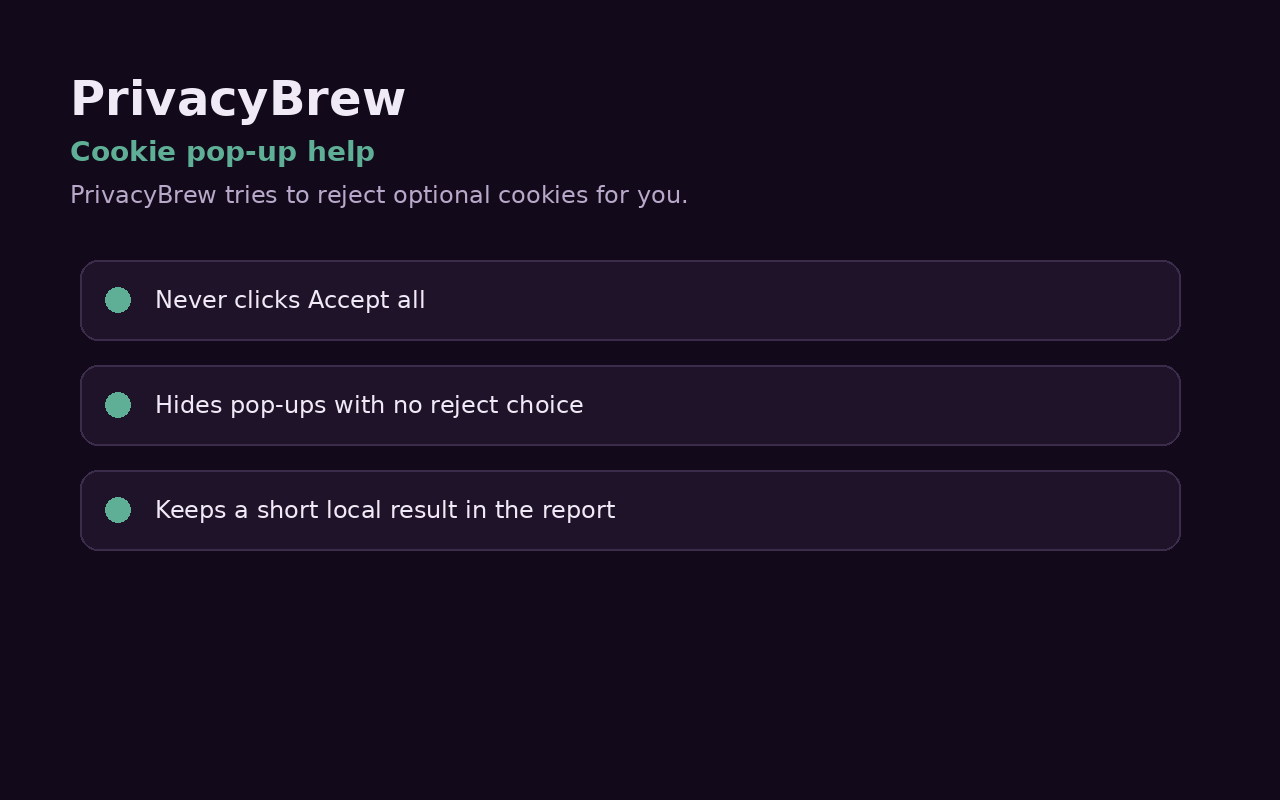
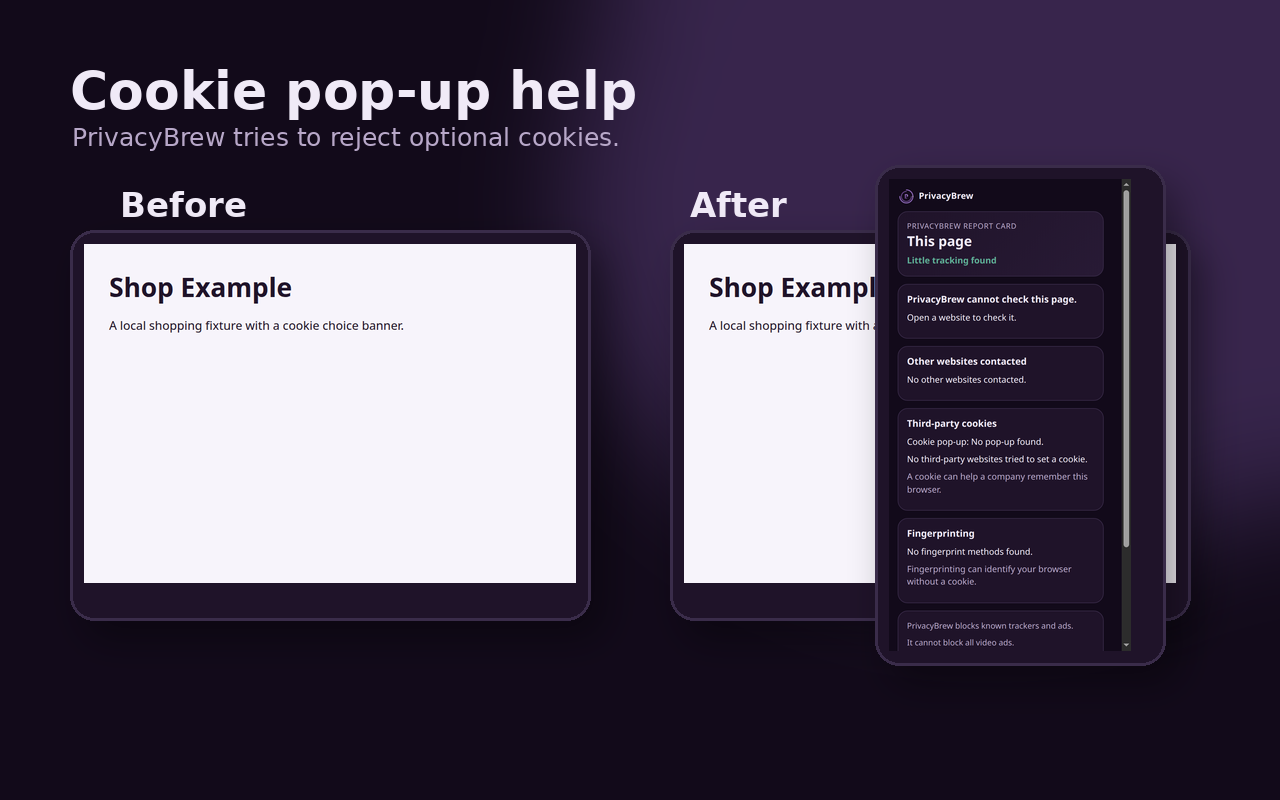
Redo store screenshots with product UI

diff --git a/tools/store_screenshots.py b/tools/store_screenshots.py
@@ -1,0 +1,190 @@
+#!/usr/bin/env python3
+import base64, contextlib, http.server, json, shutil, subprocess, threading, time
+from pathlib import Path
+from urllib.parse import urlparse
+import websocket
+from PIL import Image, ImageDraw, ImageFont, ImageFilter
+
+ROOT = Path(__file__).resolve().parents[1]
+EXT = ROOT / 'dist' / 'package-work'
+OUT = ROOT / 'store' / 'screenshots'
+PROMO = ROOT / 'store' / 'promo-small-440x280.png'
+PORT = 8876
+HOSTS = ['news.example', 'shop.example', 'www.google-analytics.com', 'static.doubleclick.net', 'connect.facebook.net', 'bat.bing.com', 'googleads.g.doubleclick.net']
+BG = '#120a1a'; PANEL = '#1f1329'; PANEL2 = '#281a35'; BORDER = '#3a2c4a'; ACC = '#9b6dd1'; GREEN = '#5fae96'; WARN = '#e8a87c'; TEXT = '#f0eaf7'; DIM = '#b8a8c9'
+
+try:
+    FONT_BIG = ImageFont.truetype('DejaVuSans-Bold.ttf', 52)
+    FONT_MED = ImageFont.truetype('DejaVuSans-Bold.ttf', 34)
+    FONT = ImageFont.truetype('DejaVuSans.ttf', 25)
+    FONT_SMALL = ImageFont.truetype('DejaVuSans.ttf', 20)
+except Exception:
+    FONT_BIG = FONT_MED = FONT = FONT_SMALL = None
+
+class Handler(http.server.BaseHTTPRequestHandler):
+    def log_message(self, *args): pass
+    def send(self, body, ctype='text/html'):
+        data = body.encode() if isinstance(body, str) else body
+        self.send_response(200); self.send_header('Content-Type', ctype); self.send_header('Content-Length', str(len(data))); self.end_headers(); self.wfile.write(data)
+    def do_GET(self):
+        host = self.headers.get('Host','').split(':')[0]
+        path = urlparse(self.path).path
+        if host == 'news.example':
+            return self.send(f'''<!doctype html><title>News Example</title><style>body{{font:20px system-ui;margin:0;background:#f7f4fb;color:#1f1329}}main{{padding:48px;max-width:900px}}.hero{{font-size:52px;font-weight:800}}.ad{{padding:18px;background:#eee;border:2px dashed #9b6dd1;margin:20px 0}}</style><main><div class="hero">Morning privacy report</div><p>This local fixture loads trackers, ads, and fingerprint scripts for the store images.</p><div class="ad" id="ADbox">Ad space</div><script src="http://www.google-analytics.com:{PORT}/ga.js"></script><script src="http://static.doubleclick.net:{PORT}/ad.js"></script><script src="http://connect.facebook.net:{PORT}/social.js"></script><script src="http://bat.bing.com:{PORT}/bing.js"></script><script src="http://googleads.g.doubleclick.net:{PORT}/pagead/ad.js"></script><script>const c=document.createElement('canvas');c.width=32;c.height=32;c.getContext('2d').getImageData(0,0,32,32);</script><p>Local story list. No real website data is used.</p></main>''')
+        if host == 'shop.example':
+            return self.send('''<!doctype html><title>Shop Example</title><style>body{font:22px system-ui;margin:0;background:#f7f4fb;color:#1f1329}main{padding:46px}.product{font-size:48px;font-weight:800}.banner{position:fixed;left:80px;right:80px;bottom:60px;background:#1f1329;color:#f0eaf7;border-radius:20px;padding:28px;box-shadow:0 18px 50px #0008}.banner button{font:20px system-ui;padding:12px 18px;margin-right:12px;border-radius:999px;border:0}.reject{background:#5fae96}.accept{background:#e8a87c}</style><main><div class="product">Shop Example</div><p>A local shopping fixture with a cookie choice banner.</p></main><div id="onetrust-consent-sdk" class="banner"><div id="onetrust-banner-sdk"><strong>Cookie choices</strong><p>We use cookies to improve this local fixture.</p><button class="ot-pc-refuse-all-handler reject" onclick="window.__rejectClicked=true;document.querySelector('.banner').style.display='none'">Reject optional cookies</button><button class="accept" onclick="window.__acceptClicked=true">Accept all</button></div></div>''')
+        if path.endswith('.js'):
+            return self.send('window.__fixtureLoaded=true;', 'application/javascript')
+        self.send_response(404); self.end_headers()
+
+def start_server():
+    server = http.server.ThreadingHTTPServer(('127.0.0.1', PORT), Handler)
+    threading.Thread(target=server.serve_forever, daemon=True).start(); return server
+
+class CDP:
+    def __init__(self, ws): self.ws = websocket.create_connection(ws, timeout=20); self.i = 1; self.events=[]
+    def call(self, method, params=None, sessionId=None):
+        msg={'id':self.i,'method':method}; self.i+=1
+        if params is not None: msg['params']=params
+        if sessionId: msg['sessionId']=sessionId
+        self.ws.send(json.dumps(msg))
+        while True:
+            data=json.loads(self.ws.recv())
+            if data.get('id')==msg['id']:
+                if 'error' in data: raise RuntimeError(data['error'])
+                return data.get('result',{})
+            self.events.append(data)
+
+def launch():
+    profile = ROOT / 'artifacts' / 'store-screenshot-profile'
+    if profile.exists(): shutil.rmtree(profile)
+    profile.mkdir(parents=True)
+    args=['google-chrome','--headless=new','--no-first-run','--no-default-browser-check',f'--user-data-dir={profile}','--remote-debugging-port=0','--remote-allow-origins=*','--enable-unsafe-extension-debugging','--window-size=1280,900','--host-resolver-rules='+','.join(f'MAP {h} 127.0.0.1' for h in HOSTS),'about:blank']
+    proc=subprocess.Popen(args,stdout=subprocess.DEVNULL,stderr=subprocess.PIPE,text=True)
+    ws=''
+    end=time.time()+20
+    while time.time()<end:
+        line=proc.stderr.readline()
+        if 'DevTools listening on ' in line: ws=line.split('DevTools listening on ',1)[1].strip(); break
+    cdp=CDP(ws)
+    ext=cdp.call('Extensions.loadUnpacked', {'path': str(EXT)})['id']
+    sw=None
+    for _ in range(50):
+        for t in cdp.call('Target.getTargets')['targetInfos']:
+            if t.get('url','').endswith('/background.js'):
+                sw=cdp.call('Target.attachToTarget', {'targetId':t['targetId'], 'flatten':True})['sessionId']; cdp.call('Runtime.enable', sessionId=sw); break
+        if sw: break
+        time.sleep(.2)
+    return proc, cdp, ext, sw, profile
+
+def attach(cdp, target):
+    return cdp.call('Target.attachToTarget', {'targetId':target, 'flatten':True})['sessionId']
+
+def evalv(cdp, session, expr):
+    return cdp.call('Runtime.evaluate', {'expression':expr, 'awaitPromise':True, 'returnByValue':True}, session).get('result',{}).get('value')
+
+def wait(cdp, session):
+    end=time.time()+15
+    while time.time()<end:
+        if evalv(cdp, session, 'document.readyState') == 'complete': return
+        time.sleep(.2)
+
+def screenshot(cdp, session, path, full=True):
+    data=cdp.call('Page.captureScreenshot', {'format':'png', 'captureBeyondViewport': full}, session)['data']
+    path.write_bytes(base64.b64decode(data)); return Image.open(path).convert('RGBA')
+
+def create_popup_state(cdp, sw, tab_id, site='news.example', cookie='none'):
+    expr=f'''(async()=>{{
+      await ensureData();
+      const s=PB.Report.emptyState({tab_id}, 'https://{site}/', '{site}'); s.status='ok';
+      PB.Report.addTracker(s, disconnect.find('www.google-analytics.com'), 'www.google-analytics.com', 'blocked', 'https://www.google-analytics.com/analytics.js');
+      PB.Report.addTracker(s, disconnect.find('static.doubleclick.net'), 'static.doubleclick.net', 'blocked', 'https://static.doubleclick.net/ad.js');
+      PB.Report.addTracker(s, disconnect.find('connect.facebook.net'), 'connect.facebook.net', 'blocked', 'https://connect.facebook.net/social.js');
+      PB.Report.addTracker(s, disconnect.find('bat.bing.com'), 'bat.bing.com', 'blocked', 'https://bat.bing.com/bing.js');
+      PB.Report.addAdBlocked(s, 'https://googleads.g.doubleclick.net/pagead/ad.js');
+      PB.Report.addOutsideScript(s, 'https://cdn.news.example/story.js', 'allowed');
+      PB.Report.addFingerprint(s, 'canvas', 'https://{site}/fingerprint.js');
+      PB.Report.addFingerprint(s, 'webgl', 'https://{site}/fingerprint.js');
+      PB.Report.addCookie(s, 'static.doubleclick.net');
+      if ('{cookie}'==='rejected') PB.Report.setCookiePopup(s, 'rejected', {{cmp:'OneTrust'}});
+      await chrome.storage.session.set({{['tab:{tab_id}']:s}});
+      await chrome.action.setBadgeText({{tabId:{tab_id}, text:'3'}});
+    }})()'''
+    cdp.call('Runtime.evaluate', {'expression': expr, 'awaitPromise': True}, sw)
+
+def popup_image(cdp, ext, sw, scroll=None, open_details=False, cookie='none'):
+    target=cdp.call('Target.createTarget', {'url': f'chrome-extension://{ext}/popup.html'})['targetId']; sess=attach(cdp,target); cdp.call('Page.enable', sessionId=sess); cdp.call('Emulation.setDeviceMetricsOverride', {'width':390,'height':760,'deviceScaleFactor':2,'mobile':False}, sess); wait(cdp,sess)
+    tab_id=evalv(cdp, sw, f"new Promise(r=>chrome.tabs.query({{}}, tabs=>{{ const hits=tabs.filter(t=>(t.url||'').startsWith('chrome-extension://{ext}/popup.html')); r(hits[hits.length-1] && hits[hits.length-1].id); }}))")
+    create_popup_state(cdp, sw, tab_id, cookie=cookie)
+    cdp.call('Page.navigate', {'url': f'chrome-extension://{ext}/popup.html'}, sess); wait(cdp,sess); time.sleep(.6)
+    if open_details:
+        cdp.call('Runtime.evaluate', {'expression': "document.querySelector('#trackersCard details') && (document.querySelector('#trackersCard details').open=true); document.querySelector('#trackersCard').scrollIntoView();"}, sess); time.sleep(.2)
+    elif scroll:
+        cdp.call('Runtime.evaluate', {'expression': f"document.querySelector('{scroll}').scrollIntoView();"}, sess); time.sleep(.2)
+    tmp=ROOT/'artifacts'/'store-popup.png'
+    return screenshot(cdp,sess,tmp,False)
+
+def page_image(cdp, url, path):
+    target=cdp.call('Target.createTarget', {'url':'about:blank'})['targetId']; sess=attach(cdp,target); cdp.call('Page.enable', sessionId=sess); cdp.call('Emulation.setDeviceMetricsOverride', {'width':900,'height':620,'deviceScaleFactor':1,'mobile':False}, sess); cdp.call('Page.navigate', {'url':url}, sess); wait(cdp,sess); time.sleep(3); return screenshot(cdp,sess,path,False)
+
+def bg():
+    im=Image.new('RGB',(1280,800),BG).convert('RGBA')
+    glow=Image.new('RGBA',(1280,800),(0,0,0,0)); d=ImageDraw.Draw(glow)
+    d.ellipse((520,-220,1450,620), fill=(155,109,209,70)); glow=glow.filter(ImageFilter.GaussianBlur(70))
+    return Image.alpha_composite(im,glow)
+
+def text(draw, xy, s, font, fill=TEXT): draw.text(xy,s,font=font,fill=fill)
+def frame(base, img, xy, size):
+    x,y=xy; w,h=size
+    shadow=Image.new('RGBA',base.size,(0,0,0,0)); sd=ImageDraw.Draw(shadow); sd.rounded_rectangle((x+14,y+18,x+w+14,y+h+18),24,fill=(0,0,0,90)); shadow=shadow.filter(ImageFilter.GaussianBlur(18)); base.alpha_composite(shadow)
+    d=ImageDraw.Draw(base); d.rounded_rectangle((x,y,x+w,y+h),24,fill=PANEL,outline=BORDER,width=3)
+    img.thumbnail((w-28,h-28), Image.Resampling.LANCZOS); base.alpha_composite(img,(x+14,y+14))
+
+def make_slide(path, title, lines, popup):
+    im=bg(); d=ImageDraw.Draw(im); text(d,(70,120),title,FONT_BIG); yy=210
+    for l in lines: text(d,(74,yy),l,FONT, DIM); yy+=42
+    frame(im,popup,(720,70),(430,660)); im.convert('RGB').save(path)
+
+def make_cookie_slide(path,before,after,popup):
+    im=bg(); d=ImageDraw.Draw(im); text(d,(70,60),'Cookie pop-up help',FONT_BIG); text(d,(72,122),'PrivacyBrew tries to reject optional cookies.',FONT,DIM)
+    text(d,(120,185),'Before',FONT_MED); text(d,(690,185),'After',FONT_MED)
+    frame(im,before,(70,230),(520,390)); frame(im,after,(670,230),(520,390)); frame(im,popup,(875,165),(290,500)); im.convert('RGB').save(path)
+
+def make_local(path):
+    im=bg(); d=ImageDraw.Draw(im); icon=Image.open(ROOT/'extension/icons/icon-128.png').convert('RGBA').resize((120,120)); im.alpha_composite(icon,(90,90)); text(d,(240,112),'Local by design',FONT_BIG)
+    cards=[('No account','PrivacyBrew does not need a login.'),('No analytics','It does not send usage data to us.'),('No remote code','Rules and scripts ship in the extension.')]
+    y=280
+    for h,b in cards:
+        d.rounded_rectangle((100,y,1180,y+110),24,fill=PANEL,outline=BORDER,width=2); text(d,(140,y+22),h,FONT_MED,ACC); text(d,(140,y+62),b,FONT,DIM); y+=140
+    im.convert('RGB').save(path)
+
+def promo(path):
+    im=Image.new('RGB',(440,280),BG).convert('RGBA'); d=ImageDraw.Draw(im); d.rounded_rectangle((18,18,422,262),28,fill=PANEL,outline=BORDER,width=2)
+    icon=Image.open(ROOT/'extension/icons/icon-128.png').convert('RGBA').resize((76,76)); im.alpha_composite(icon,(42,52)); text(d,(135,55),'PrivacyBrew',FONT_MED); text(d,(42,150),'Block trackers and ads.',FONT); text(d,(42,190),'See a plain-language report.',FONT_SMALL,DIM); im.convert('RGB').save(path)
+
+def main():
+    if not EXT.exists(): subprocess.run(['python3','tools/package.py'], cwd=ROOT, check=True)
+    OUT.mkdir(parents=True, exist_ok=True); (ROOT/'artifacts').mkdir(exist_ok=True)
+    server=start_server(); proc=None
+    try:
+        proc,cdp,ext,sw,profile=launch()
+        report=popup_image(cdp,ext,sw)
+        controls=popup_image(cdp,ext,sw,scroll='#controlsCard')
+        companies=popup_image(cdp,ext,sw,open_details=True)
+        before=page_image(cdp,f'http://shop.example:{PORT}/',ROOT/'artifacts'/'store-before.png')
+        # Use fixture page after extension has handled it.
+        after=page_image(cdp,f'http://shop.example:{PORT}/',ROOT/'artifacts'/'store-after.png')
+        popup_cookie=popup_image(cdp,ext,sw,cookie='rejected')
+        make_slide(OUT/'01-report-card.png','See the privacy story',['A plain-language report card for each website.','Trackers, ads, cookies and fingerprinting in one place.'],report)
+        make_slide(OUT/'02-blocking-controls.png','Control each protection',['Block trackers and ads by default.','Send privacy requests to websites.'],controls)
+        make_cookie_slide(OUT/'03-cookie-popups.png',before,after,popup_cookie)
+        make_slide(OUT/'04-companies-detail.png','See which companies appear',['Company rows show Blocked or Allowed.','Open details to see request domains.'],companies)
+        make_local(OUT/'05-local-by-design.png')
+        promo(PROMO)
+    finally:
+        if proc:
+            with contextlib.suppress(Exception): proc.terminate(); proc.wait(timeout=5)
+        server.shutdown()
+        with contextlib.suppress(Exception): shutil.rmtree(ROOT/'artifacts'/'store-screenshot-profile')
+
+if __name__=='__main__': main()

diff --git a/store/screenshots/README.md b/store/screenshots/README.md
@@ -1,0 +1,9 @@
+# Screenshot order and captions
+
+1. `01-report-card.png` - A plain-language report card with summary numbers.
+2. `02-blocking-controls.png` - Blocking settings and privacy requests.
+3. `03-cookie-popups.png` - Cookie pop-up handling before and after.
+4. `04-companies-detail.png` - Company detail rows with blocked and allowed status.
+5. `05-local-by-design.png` - Local processing and no remote code.
+
+All screenshots use local fixtures only. No real website or personal data appears.
